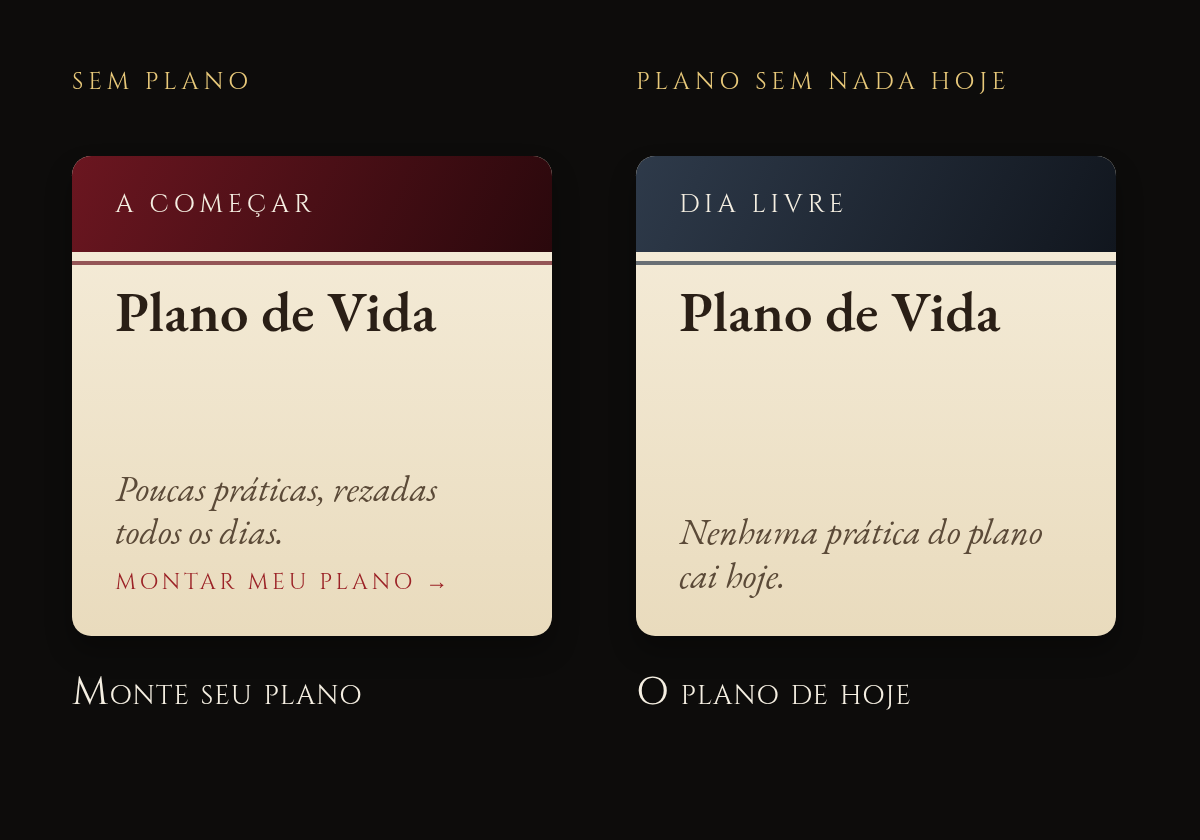
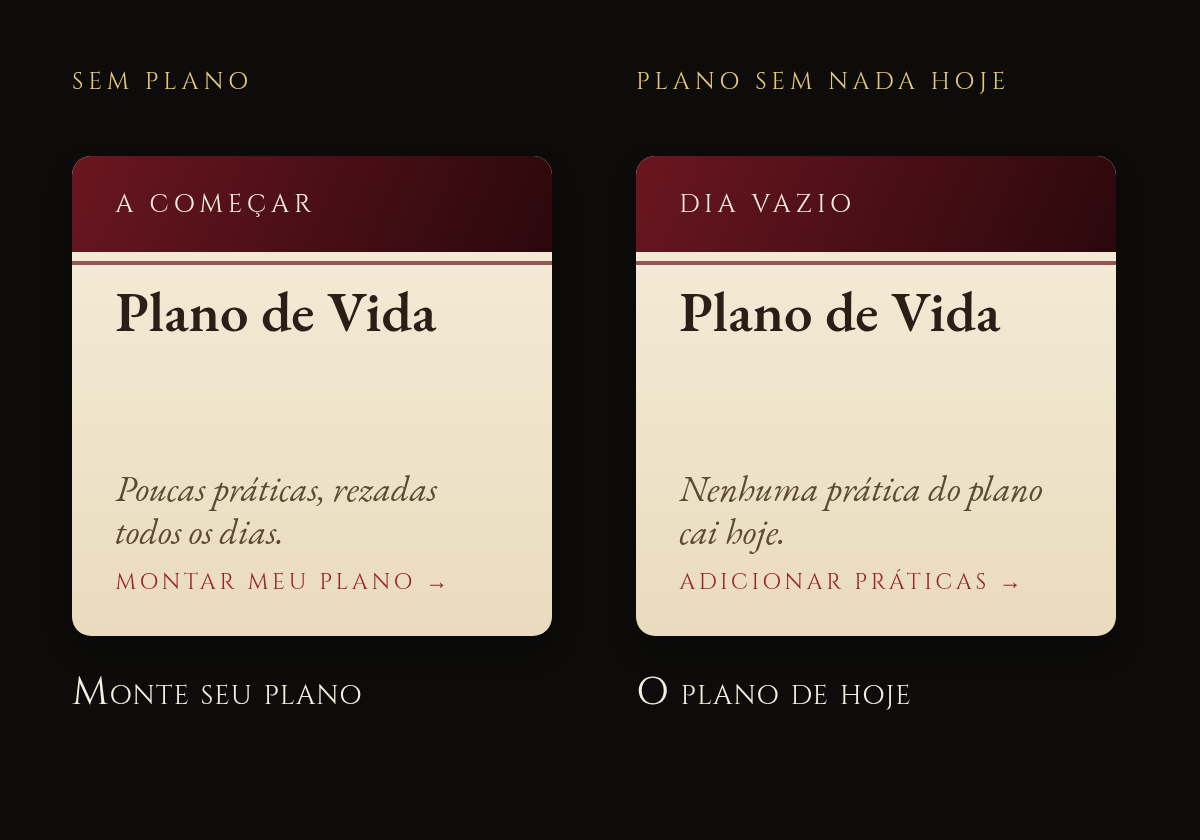
Prototype: the empty day takes the red too

Changed region(s): [[0.5242, 0.1857, 0.9558, 0.3405], [0.555, 0.5571, 0.8633, 0.65], [0.555, 0.681, 0.8325, 0.7119]]

diff --git a/prototypes/plan-card-empty/index.html b/prototypes/plan-card-empty/index.html
@@ -28,8 +28,8 @@ body{margin:0;background:#0d0c0b;color:#F5EFE2;padding:22px 24px 26px;width:592p
   <div class="cap">Monte seu plano</div></div>
 
  <div class="col"><div class="tag">PLANO SEM NADA HOJE</div>
-  <div class="card"><div class="band ink"><span>DIA LIVRE</span></div><div class="rule" style="background:#2E3A4A"></div>
+  <div class="card"><div class="band red"><span>DIA VAZIO</span></div><div class="rule" style="background:#6B1620"></div>
    <div class="title">Plano de Vida</div>
-   <div class="body"><div class="it">Nenhuma prática do plano cai hoje.</div></div></div>
+   <div class="body"><div class="it">Nenhuma prática do plano cai hoje.</div><div class="cta" style="margin-top:4.5px">ADICIONAR PRÁTICAS →</div></div></div>
   <div class="cap">O plano de hoje</div></div>
 </div>
